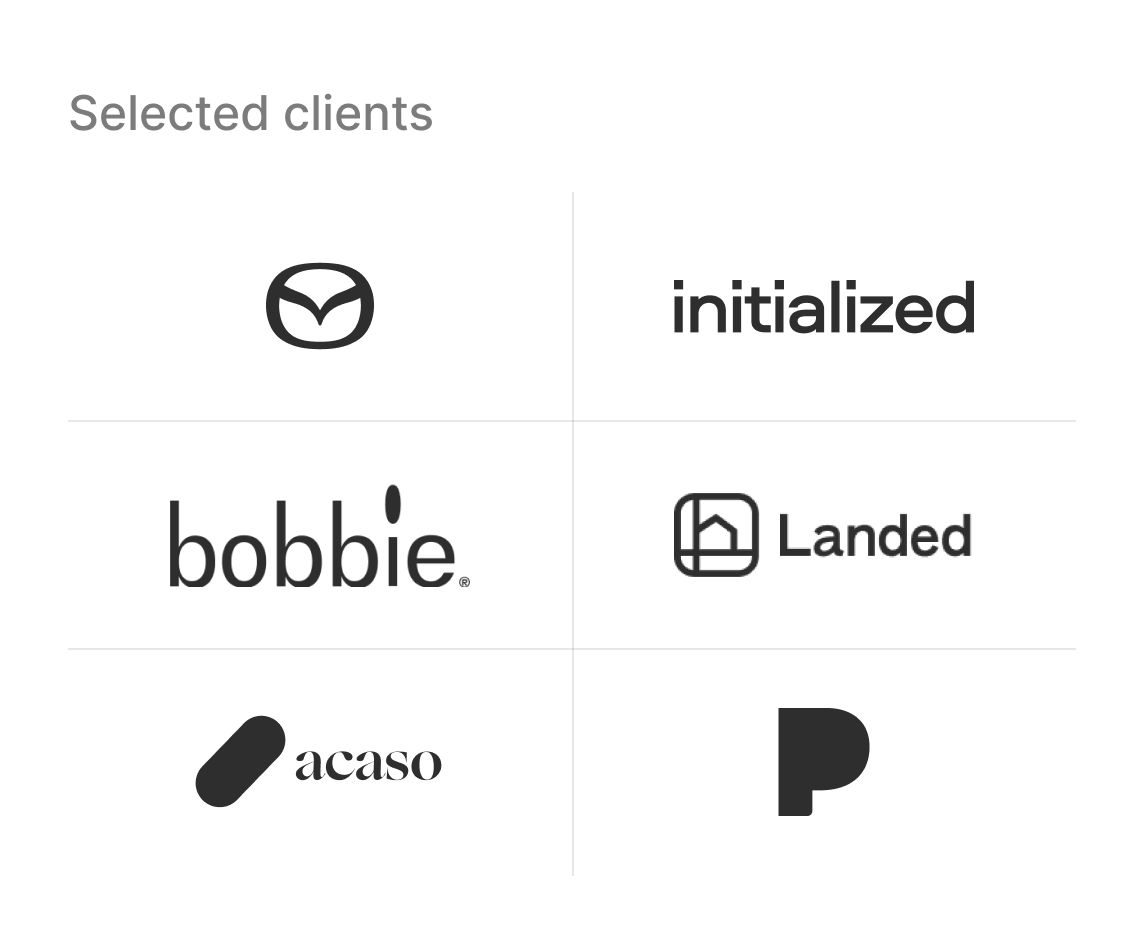
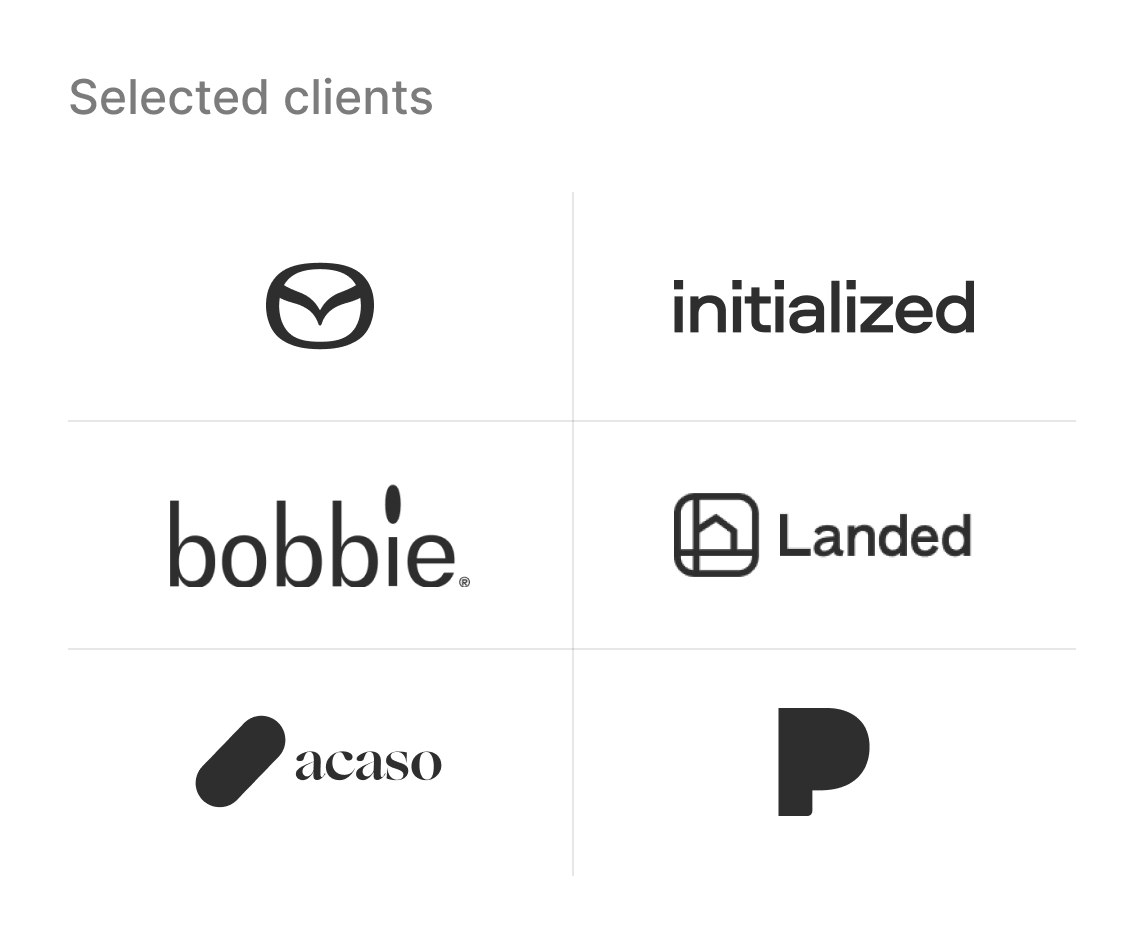
Refresh the clients graphic and sit the slide artwork above centre
Re-exported both slide graphics. Only the clients one actually differed — its
"Selected clients" label had moved; the convergence export came back
byte-identical to what was already shipped, so slide 4's artwork was current.

What had changed on slide 4 was its placement: on 438:11100 the artwork sits
above centre in the field rather than centred. Slides 2 and 3 both sit at y=22
of a 332 field, so that is the rule — expressed as a ratio of the container
width so it holds when the card grows to its 420px cap, not a fixed 22px.

The portrait needed margin-top:0 alongside it. It is absolutely positioned, but
margins still offset an absolutely positioned box, so the shared top bias was
pushing the photo 22px down and reopening a gap at the top of the card.

Verified: artwork at y=22 on slides 2-4, photo flush at y=0 on slide 1.

Changed region(s): [[0.0612, 0.0612, 0.3977, 0.153]]

diff --git a/styles/site.css b/styles/site.css
@@ -600,7 +600,10 @@ a { color: inherit; }
     height: auto;
     aspect-ratio: auto;
     object-fit: contain;
-    align-self: center;
+    /* sits above centre, as drawn: 22 of a 332 field on 438:11100, kept as a
+       ratio so it holds when the card grows to its 420 cap */
+    align-self: start;
+    margin-top: calc(100cqw * 0.0663);
     margin-inline: auto;
     border-radius: var(--radius-slide-art);
     background: none;
@@ -614,6 +617,7 @@ a { color: inherit; }
   .slide--portrait .slide__media {
     position: absolute;
     top: 0; left: 0;
+    margin-top: 0;          /* the shared rule's top bias must not apply here */
     width: 100%;
     height: calc(100cqw + var(--radius-card));
     object-fit: cover;
